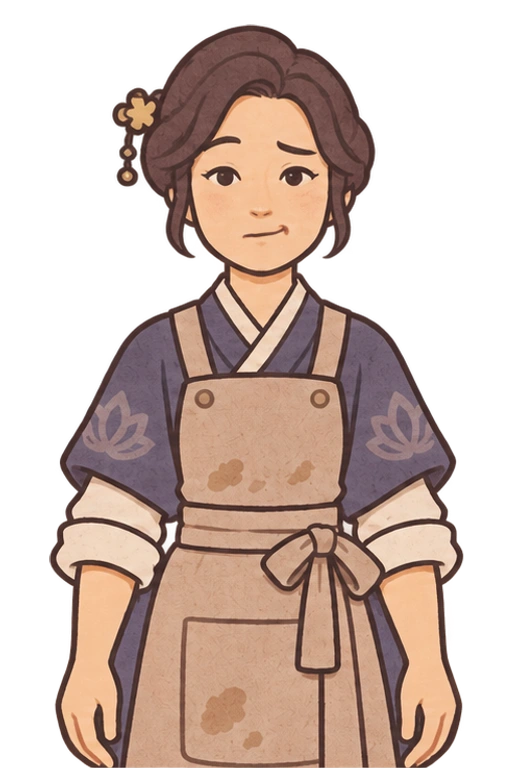
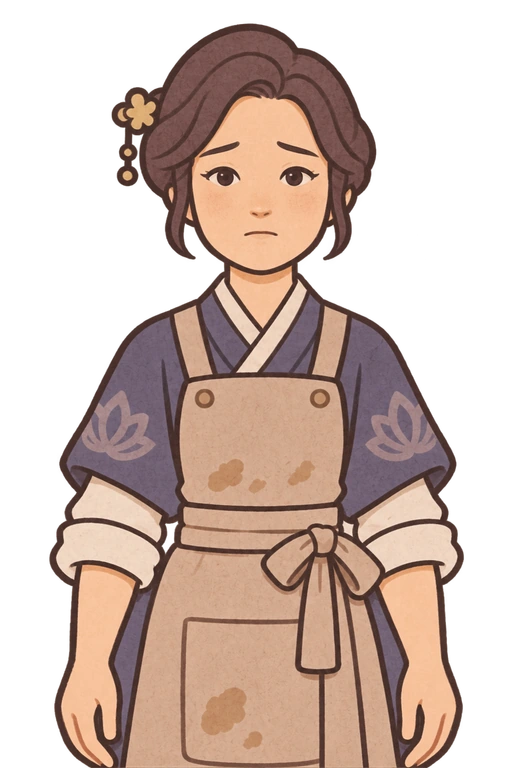
Polish paper orders, kind reactions and speaker-aligned dialogue

diff --git a/dialogue.js b/dialogue.js
@@ -88,10 +88,47 @@ const REVIEWS=Object.freeze({
 });
 const hash=text=>{let n=0;for(const c of String(text))n=(Math.imul(n,31)+c.charCodeAt(0))>>>0;return n;};
 export function reviewMood(score){return score?.objective>=80&&score?.total>=85?'happy':score?.total>=60?'uncertain':'angry';}
+const EXPLANATION_REVIEWS=Object.freeze({
+ king:[['청자는 잘 빚었소.','과인의 주문대로 모양과 제작을 잘 갖추었구려. 이제 그 까닭을 더 자세히 들려주시오.'],['기물은 마음에 드오.','부탁한 청자는 제대로 만들었소. 어디에 쓰고 어찌 만들었는지 이야기를 보태시오.'],['솜씨는 잘 보았소.','주문에 맞게 빚은 것은 흡족하오. 작품에 담은 생각도 듣고 싶구려.']],
+ queen:[['청자는 곱게 완성했소.','부탁한 모양과 제작은 잘 갖추었소. 이 청자의 쓰임과 솜씨를 말로도 전해 주시오.'],['작품은 마음에 드는구려.','주문의 조건은 잘 맞췄소. 그 모양과 무늬를 고른 까닭을 조금 더 들려주시오.'],['이야기가 조금 아쉽소.','청자를 잘 만든 것은 보이오. 어디에 쓰고 어떤 공을 들였는지 보태 주시오.']],
+ noble:[['청자는 제대로 만들었소.','주문한 모양과 제작은 모두 맞소. 이 물건을 어떻게 쓰고 만들었는지 설명해 주시오.'],['기물은 흡족하구려.','부탁한 조건을 꼼꼼히 갖췄소. 작품에 담은 까닭까지 들으면 좋겠구려.'],['설명을 더 듣고 싶소.','청자는 주문에 맞게 잘 빚었소. 그대가 생각한 쓰임과 솜씨를 들려주시오.']],
+ noblewoman:[['청자는 마음에 드오.','부탁한 대로 잘 빚었구려. 우리 집 어디에 쓰면 좋을지 이야기도 보태 주시오.'],['잘 만든 것은 알겠소.','모양과 제작 조건은 모두 맞소. 무슨 생각으로 만들었는지 더 듣고 싶구려.'],['이야기만 더 들려주시오.','부탁한 기물은 잘 완성했소. 쓰임과 공들인 부분을 차근히 이야기해 주시오.']],
+ artisan:[['손끝의 솜씨는 좋구려.','주문과 제작 과정은 모두 맞췄소. 이제 왜 그렇게 만들었는지 설명해 보시오.'],['청자는 잘 완성했소.','모양과 제작을 제대로 익혔구려. 그 까닭을 말로 풀어내는 연습도 해 보시오.'],['생각을 더 들려주시오.','주문에 맞게 잘 빚었소. 어느 곳에 쓰고 무엇에 공을 들였는지 이야기해 보시오.']],
+});
+const REPAIR_QUOTES=Object.freeze({
+ king:{use:['과인이 무엇에 쓰려 했는지 다시 살피시오. 그 쓰임에 맞는 기물을 고르시오.','부탁한 쓰임과 고른 기물의 형태가 다르구려. 쓸 자리를 생각하여 다시 고르시오.'],process:['기물의 제작이 아직 끝나지 않았구려. 남은 과정을 차근히 마무리하시오.','제작 단계에 빠진 곳이 보이오. 마무리한 뒤 다시 가져오시오.'],design:['기법이나 무늬, 세부 형태에서 주문과 다른 조건이 있소. 아래 짚은 부분을 살피시오.','과인이 부탁한 세부 조건이 아직 맞지 않소. 짚어 드리는 조건을 다시 확인하시오.']},
+ queen:{use:['부탁한 자리에 쓰기에는 기물의 종류가 다르구려. 쓰임에 맞는 형태를 골라 주시오.','내가 무엇을 하려 했는지 떠올려 보시오. 그 일에 알맞은 기물을 부탁하오.'],process:['완성까지 남은 제작 과정이 있소. 차례대로 마무리해 주시오.','제작의 한 단계가 빠졌구려. 남은 손질을 마친 뒤 다시 보여 주시오.'],design:['부탁한 기법과 무늬, 세부 형태 중 다른 조건이 보이오. 짚은 곳을 맞춰 주시오.','주문의 세부 조건을 조금 더 살펴 주시오. 고칠 곳을 아래에 짚어 두었소.']},
+ noble:{use:['내가 부탁한 쓰임에는 다른 형태가 필요하오. 주문을 읽고 기물부터 다시 골라 주시오.','이 물건의 쓰임이 부탁한 것과 다르오. 어디에 쓸지 생각하며 형태를 고르시오.'],process:['제작이 덜 끝났구려. 남은 단계를 마쳐야 받아 쓸 수 있소.','완성에 필요한 과정이 빠졌소. 순서를 살펴 끝까지 마무리하시오.'],design:['기법과 무늬, 세부 형태 중 주문과 맞지 않는 조건이 있소. 아래 조건을 다시 보시오.','부탁한 세부 조건이 아직 빠져 있소. 짚어 드린 부분을 고쳐 주시오.']},
+ noblewoman:{use:['내가 쓸 곳과 기물의 종류가 맞지 않소. 그 쓰임에 알맞은 형태로 골라 주시오.','어디에 두고 무엇을 할 물건인지 다시 살펴보시오. 그에 맞는 기물이 필요하오.'],process:['정성을 들여 마무리할 단계가 남았구려. 빠진 제작 과정을 이어 주시오.','아직 완성하지 못한 과정이 있소. 남은 손질을 마친 뒤 보여 주시오.'],design:['부탁한 기법이나 무늬, 세부 형태에 다른 점이 남았소. 짚은 조건을 다시 살펴 주시오.','주문에서 세세히 부탁한 부분을 더 맞춰 주시오. 고칠 조건을 아래에 적었소.']},
+ artisan:{use:['먼저 이 기물의 쓰임을 떠올려 보시오. 주문한 일에 알맞은 형태를 다시 골라 보시오.','쓰임과 형태를 잇는 연습이 더 필요하오. 무엇을 할 물건인지부터 다시 살피시오.'],process:['제작 과정에 빠진 단계가 있구려. 순서대로 끝까지 해내는 것도 도공의 솜씨요.','마무리하지 못한 제작 단계를 살펴보시오. 남은 일을 차근히 끝내 보시오.'],design:['세부 형태와 기법, 무늬에서 주문과 다른 조건을 찾아보시오. 고칠 부분을 아래에 짚었소.','주문의 세부 조건을 다시 확인할 차례요. 짚어 준 조건부터 맞춰 보시오.']},
+});
+function reviewDetail(shortfall){
+ if(!shortfall)return '그대가 붙인 이름과 이야기를 함께 간직하겠소.';
+ const feedback=String(shortfall.feedback||'');
+ if(shortfall.key==='use'){const shape=feedback.match(/이 주문에는 (.+?)의 쓰임/);return shape?`이 주문에는 ${shape[1]}의 쓰임이 알맞소. 그 형태를 골라 주시오.`:'무엇에 쓸 청자인지 생각하고, 쓰임에 알맞은 형태를 고르시오.';}
+ if(shortfall.key==='process')return feedback.includes('제작 단계를')?'선택한 표현 방법의 제작 단계를 먼저 마무리하시오.':'건조 → 초벌 → 유약 → 재벌의 과정을 순서대로 마무리하시오.';
+ if(shortfall.key==='design'){
+  if(feedback.includes('물이 샐'))return '몸통의 구멍으로 물이 샐 수 있소. 물 담을 기물에는 상감이나 무문을 고르시오.';
+  if(feedback.includes('세부 형태'))return '주문에 제시된 참고 예시와 내가 고른 세부 형태를 비교하시오.';
+  const motif=feedback.match(/주문에 있는 (.+?)를 다시/);if(motif)return `주문한 ${motif[1]} 무늬가 모두 들어 있는지 살피시오.`;
+  const technique=feedback.match(/이 주문에는 (.+?) 기법이 필요/);if(technique)return `이 주문에는 ${technique[1]} 기법이 필요하오. 그 기법으로 표현하시오.`;
+  return '주문한 기법과 무늬, 세부 형태 가운데 빠진 조건을 확인하시오.';
+ }
+ return ['selfBeauty','explanationBeauty'].includes(shortfall.key)?'공들인 부분과 그때 한 작업, 그렇게 표현한 까닭을 구체적으로 설명하시오.':'만든 모양·무늬가 어디에 쓰기 알맞은지 까닭을 덧붙여 주시오.';
+}
 export function customerReview(order,score,work={}){
- const character=castForOrder(order||{id:'unknown'},work.customerId),mood=reviewMood(score),variants=REVIEWS[character.id][mood];
- const [headline,quote]=variants[hash(`${work.id||''}:${order?.id||''}:${score?.total||0}`)%variants.length];
- const shortfall=(score?.breakdown||[]).filter(item=>item.score<item.max).sort((a,b)=>(a.score/a.max)-(b.score/b.max))[0];
- const details={use:'무엇에 쓸 청자인지 생각하고, 쓰임에 알맞은 형태를 고르시오.',process:'장식과 건조, 초벌, 유약, 재벌의 순서를 다시 살펴보시오.',design:'주문서의 세부 형태와 기법, 무늬를 하나씩 맞춰 보시오.',selfUse:'모양이 그 쓰임에 왜 알맞은지 까닭을 덧붙여 주시오.',selfBeauty:'빛깔이나 무늬, 제작 기법이 왜 뛰어난지 까닭을 설명하시오.',explanationUse:'모양이 그 쓰임에 왜 알맞은지 까닭을 덧붙여 주시오.',explanationBeauty:'빛깔이나 무늬, 제작 기법이 왜 뛰어난지 까닭을 설명하시오.'};
- return {character:character.id,mood,headline,quote,detail:shortfall?(details[shortfall.key]||'작품에 담은 까닭을 조금 더 구체적으로 들려주시오.'):'그대가 붙인 이름과 이야기를 함께 간직하겠소.',learningFeedback:shortfall?.feedback||'',total:Number(score?.total)||0};
+ const character=castForOrder(order||{id:'unknown'},work.customerId),mood=reviewMood(score),seed=hash(`${work.id||''}:${order?.id||''}:${score?.total||0}`);
+ const shortfalls=(score?.breakdown||[]).filter(item=>item.max>0&&item.score<item.max);
+ const objectiveShortfalls=shortfalls.filter(item=>['use','process','design'].includes(item.key));
+ // Diagnose the work before its written explanation. A full 80/80 never requests a new shape.
+ const candidates=objectiveShortfalls.length?objectiveShortfalls:shortfalls;
+ const shortfall=candidates.sort((a,b)=>(a.score/a.max)-(b.score/b.max))[0];
+ let [headline,quote]=REVIEWS[character.id][mood][seed%REVIEWS[character.id][mood].length];
+ const explanationOnly=Number(score?.objective)>=80&&mood!=='happy';
+ if(explanationOnly){const variants=EXPLANATION_REVIEWS[character.id];[headline,quote]=variants[seed%variants.length];}
+ else if(mood!=='happy'){
+  const focus=objectiveShortfalls.length?shortfall.key:'design',variants=REPAIR_QUOTES[character.id][focus];
+  quote=variants[seed%variants.length];
+ }
+ return {character:character.id,mood,headline,quote,detail:reviewDetail(shortfall),focus:shortfall?.key||'complete',learningFeedback:shortfall?.feedback||'',total:Number(score?.total)||0};
 }

diff --git a/assets/characters/reactions/contact-sheet.html b/assets/characters/reactions/contact-sheet.html
@@ -1,0 +1,10 @@
+<!doctype html>
+<html lang="ko"><head><meta charset="utf-8"><meta name="viewport" content="width=device-width,initial-scale=1"><title>고려 공방 인물 표정 검수 · 5명 × 3표정</title>
+<style>
+@font-face{font-family:Jua;src:url('../../fonts/Jua-Regular.woff2') format('woff2')}*{box-sizing:border-box}body{margin:0;background:#efe2cc;color:#61464a;font-family:Jua,sans-serif}main{max-width:1140px;margin:auto;padding:30px}h1{font-size:32px;margin:0 0 8px}p{font-size:16px;line-height:1.6;margin:0 0 18px}.legend{display:grid;grid-template-columns:150px repeat(3,1fr);gap:12px;padding:12px 0;font-size:22px;text-align:center}.row{display:grid;grid-template-columns:150px repeat(3,1fr);gap:12px;margin:0 0 16px}.person{display:flex;flex-direction:column;justify-content:center;gap:9px}.person h2{font-size:23px;margin:0}.person a{font-size:15px;color:#47694f;text-decoration:underline;text-underline-offset:4px}.card{margin:0;border:2px solid #aa8374;border-radius:14px;background:#fff7e8;overflow:hidden}.card img{display:block;width:100%;height:280px;object-fit:contain;object-position:center bottom;background:linear-gradient(#e9eddc,#ead8bb)}figcaption{padding:9px 12px;text-align:center;font-size:17px;background:#fff5e2}.note{padding:16px 20px;border:1px solid #b5967d;border-radius:10px;background:#f9f0de;margin-top:26px}.file{font-family:monospace;font-size:11px;color:#8d756b;display:block;margin-top:4px}@media(max-width:760px){main{padding:18px}.legend,.row{grid-template-columns:100px repeat(3,1fr);gap:7px}.card img{height:200px}.person h2{font-size:19px}.person a{font-size:13px}figcaption{font-size:14px;padding:6px}.file{display:none}}
+</style></head><body><main>
+<h1>다섯 사람의 세 가지 표정</h1><p>게임에서 실제로 불러오는 반신상 15개를 모은 제작 검수 화면입니다. 만족과 화남은 원본 시트의 표정을 사용하고, 아쉬움은 양쪽 눈썹과 입이 대칭인 부드러운 표정으로 새로 그렸습니다.</p>
+<div class="legend"><span>등장인물</span><span>만족</span><span>아쉬움</span><span>화남</span></div>
+<section class="row" aria-label="왕 표정"><div class="person"><h2>왕</h2><a href="source/king.png" target="_blank" rel="noopener">초기 3표정 원본 ↗</a><a href="source/king-uncertain-kind.png" target="_blank" rel="noopener">새 아쉬움 원본 ↗</a></div><figure class="card"><img src="king-happy.webp" width="512" height="768" alt="왕 · 기쁘게 웃는 얼굴"><figcaption>만족<span class="file">king-happy.webp</span></figcaption></figure><figure class="card"><img src="king-uncertain.webp" width="512" height="768" alt="왕 · 양쪽 눈썹과 입이 대칭인 부드러운 아쉬움"><figcaption>아쉬움<span class="file">king-uncertain.webp</span></figcaption></figure><figure class="card"><img src="king-angry.webp" width="512" height="768" alt="왕 · 눈썹을 찌푸린 얼굴"><figcaption>화남<span class="file">king-angry.webp</span></figcaption></figure></section><section class="row" aria-label="왕비 표정"><div class="person"><h2>왕비</h2><a href="source/queen.png" target="_blank" rel="noopener">초기 3표정 원본 ↗</a><a href="source/queen-uncertain-kind.png" target="_blank" rel="noopener">새 아쉬움 원본 ↗</a></div><figure class="card"><img src="queen-happy.webp" width="512" height="768" alt="왕비 · 기쁘게 웃는 얼굴"><figcaption>만족<span class="file">queen-happy.webp</span></figcaption></figure><figure class="card"><img src="queen-uncertain.webp" width="512" height="768" alt="왕비 · 양쪽 눈썹과 입이 대칭인 부드러운 아쉬움"><figcaption>아쉬움<span class="file">queen-uncertain.webp</span></figcaption></figure><figure class="card"><img src="queen-angry.webp" width="512" height="768" alt="왕비 · 눈썹을 찌푸린 얼굴"><figcaption>화남<span class="file">queen-angry.webp</span></figcaption></figure></section><section class="row" aria-label="귀족 관원 표정"><div class="person"><h2>귀족 관원</h2><a href="source/noble.png" target="_blank" rel="noopener">초기 3표정 원본 ↗</a><a href="source/noble-uncertain-kind.png" target="_blank" rel="noopener">새 아쉬움 원본 ↗</a></div><figure class="card"><img src="noble-happy.webp" width="512" height="768" alt="귀족 관원 · 기쁘게 웃는 얼굴"><figcaption>만족<span class="file">noble-happy.webp</span></figcaption></figure><figure class="card"><img src="noble-uncertain.webp" width="512" height="768" alt="귀족 관원 · 양쪽 눈썹과 입이 대칭인 부드러운 아쉬움"><figcaption>아쉬움<span class="file">noble-uncertain.webp</span></figcaption></figure><figure class="card"><img src="noble-angry.webp" width="512" height="768" alt="귀족 관원 · 눈썹을 찌푸린 얼굴"><figcaption>화남<span class="file">noble-angry.webp</span></figcaption></figure></section><section class="row" aria-label="귀족 부인 표정"><div class="person"><h2>귀족 부인</h2><a href="source/noblewoman.png" target="_blank" rel="noopener">초기 3표정 원본 ↗</a><a href="source/noblewoman-uncertain-kind.png" target="_blank" rel="noopener">새 아쉬움 원본 ↗</a></div><figure class="card"><img src="noblewoman-happy.webp" width="512" height="768" alt="귀족 부인 · 기쁘게 웃는 얼굴"><figcaption>만족<span class="file">noblewoman-happy.webp</span></figcaption></figure><figure class="card"><img src="noblewoman-uncertain.webp" width="512" height="768" alt="귀족 부인 · 양쪽 눈썹과 입이 대칭인 부드러운 아쉬움"><figcaption>아쉬움<span class="file">noblewoman-uncertain.webp</span></figcaption></figure><figure class="card"><img src="noblewoman-angry.webp" width="512" height="768" alt="귀족 부인 · 눈썹을 찌푸린 얼굴"><figcaption>화남<span class="file">noblewoman-angry.webp</span></figcaption></figure></section><section class="row" aria-label="도공 선생님 표정"><div class="person"><h2>도공 선생님</h2><a href="source/artisan.png" target="_blank" rel="noopener">초기 3표정 원본 ↗</a><a href="source/artisan-uncertain-kind.png" target="_blank" rel="noopener">새 아쉬움 원본 ↗</a></div><figure class="card"><img src="artisan-happy.webp" width="512" height="768" alt="도공 선생님 · 기쁘게 웃는 얼굴"><figcaption>만족<span class="file">artisan-happy.webp</span></figcaption></figure><figure class="card"><img src="artisan-uncertain.webp" width="512" height="768" alt="도공 선생님 · 양쪽 눈썹과 입이 대칭인 부드러운 아쉬움"><figcaption>아쉬움<span class="file">artisan-uncertain.webp</span></figcaption></figure><figure class="card"><img src="artisan-angry.webp" width="512" height="768" alt="도공 선생님 · 눈썹을 찌푸린 얼굴"><figcaption>화남<span class="file">artisan-angry.webp</span></figcaption></figure></section>
+<p class="note">원본 이미지와 해시 기록은 <a href="manifest.json">manifest.json</a>에 보존되어 있습니다. 게임의 점수 구간은 제작·주문 80점 및 총점 85점 이상이면 만족, 총점 60점 이상이면 아쉬움, 60점 미만이면 화남입니다. 이 검수 문서는 게임 메뉴에 노출되지 않습니다.</p>
+</main></body></html>

diff --git a/reactions.test.js b/reactions.test.js
@@ -27,5 +27,20 @@ test('all 15 expression images preserve generated sources and recorded hashes',a
  const manifest=JSON.parse(await readFile(new URL('./assets/characters/reactions/manifest.json',import.meta.url),'utf8'));
  assert.deepEqual(manifest.moods,['happy','uncertain','angry']);assert.equal(manifest.characters.length,5);
  for(const char of manifest.characters){const original=await readFile(new URL('./assets/characters/reactions/'+char.source,import.meta.url));assert.equal(createHash('sha256').update(original).digest('hex'),char.sourceSha256);assert.equal(original[25],6,'source has alpha');assert.equal(char.frames.length,3);
- for(const frame of char.frames){const bytes=await readFile(new URL(frame.src,import.meta.url));assert.equal(createHash('sha256').update(bytes).digest('hex'),frame.sha256);assert.equal(bytes.subarray(8,12).toString(),'WEBP');}}
+ for(const frame of char.frames){if(frame.source){const source=await readFile(new URL('./assets/characters/reactions/'+frame.source,import.meta.url));assert.equal(createHash('sha256').update(source).digest('hex'),frame.sourceSha256);assert.equal(source.readUInt32BE(16),frame.sourceWidth);assert.equal(source.readUInt32BE(20),frame.sourceHeight);}const bytes=await readFile(new URL(frame.src,import.meta.url));assert.equal(createHash('sha256').update(bytes).digest('hex'),frame.sha256);assert.equal(bytes.subarray(8,12).toString(),'WEBP');}}
+});
+
+test('perfect construction with weak explanations praises the pot and asks only for its story',()=>{
+ const score={objective:80,self:0,total:80,breakdown:[{key:'use',score:40,max:40},{key:'process',score:30,max:30},{key:'design',score:10,max:10},{key:'selfUse',score:0,max:10,feedback:'이유를 보태 주세요.'},{key:'selfBeauty',score:0,max:10}]};
+ for(const character of CHARACTERS){const lines=new Set();for(let i=0;i<12;i++){const review=customerReview(ORDERS[0],score,{customerId:character.id,id:'explanation-'+i});assert.equal(review.mood,'uncertain');assert.equal(review.focus,'selfUse');assert.match(review.quote,/잘|맞|제대로|흐뭇|갖추|좋|완성|익혔/);assert.match(review.quote,/까닭|설명|이야기|생각|말로|들려|보태/);assert.doesNotMatch(review.headline+' '+review.quote,/형편없|주문과.*다르|모양.*다시 맞|쓰임을 놓|다시 빚|빠진 조건|고쳐/);lines.add(review.quote);}assert.ok(lines.size>=2);}
+});
+test('the actual deficient construction criterion takes precedence over low writing points',()=>{
+ const make=(key,feedback)=>({objective:key==='use'?40:key==='process'?50:70,total:key==='use'?40:key==='process'?50:70,breakdown:[{key:'use',score:key==='use'?0:40,max:40,feedback:key==='use'?feedback:''},{key:'process',score:key==='process'?0:30,max:30,feedback:key==='process'?feedback:''},{key:'design',score:key==='design'?0:10,max:10,feedback:key==='design'?feedback:''},{key:'selfUse',score:0,max:10}]});
+ for(const character of CHARACTERS){
+  const work={id:'criterion',customerId:character.id};
+  const use=customerReview(ORDERS[0],make('use','이 주문에는 베개의 쓰임이 어울려요.'),work);assert.equal(use.focus,'use');assert.match(use.detail,/베개/);
+  const process=customerReview(ORDERS[0],make('process','건조 → 초벌구이 → 유약 바르기 → 재벌구이 순서로 다시 확인해 보세요.'),work);assert.equal(process.focus,'process');assert.match(process.quote,/제작|과정|단계/);assert.doesNotMatch(process.quote,/형태.*다르|쓰임.*다르/);
+  const technique=customerReview(ORDERS[0],make('design','이 주문에는 상감 기법이 필요해요.'),work);assert.equal(technique.focus,'design');assert.match(technique.detail,/상감/);assert.doesNotMatch(technique.quote,/기물의 종류|쓰임.*다르/);
+  const motif=customerReview(ORDERS[0],make('design','주문에 있는 학를 다시 확인해 보세요.'),work);assert.match(motif.detail,/학 무늬/);
+ }
 });

diff --git a/app-v3.js b/app-v3.js
@@ -132,6 +132,6 @@ document.addEventListener('input',e=>{const el=e.target;if(!work||busy)return;if
 window.addEventListener('pagehide',()=>{assessmentRequest?.abort();clayGame?.dispose();inlayGame?.dispose();inspectionGame?.dispose();galleryCraft?.dispose();mini?.dispose();sculpt?.dispose();craft?.dispose();});
 
 function setView(view){screen=view;work.stationView=view;save();render();}
-function counterScreen(){const customer=castForOrder(order(),work?.customerId),done=work.step===4,delivery=screen==='counter-delivery';return `<section class="counter-scene"><div class="counter-person">${characterMarkup(customer.id)}</div><div class="counter-dialogue"><div class="counter-speech"><span>${customer.name}${delivery?'의 답장':'의 주문'}</span><p>${delivery?(done?'정성껏 만든 청자를 잘 받았어요. 고마워요!':'청자가 완성됐군요! 어디에 쓰고 어떤 솜씨를 담았는지 들려주세요.'):esc(orderQuote(order()))}</p></div><div class="counter-responses">${delivery?`<button class="primary" data-action="${done?'result':'explain'}">${done?'답장 확인':'작품 이야기 전하기'}</button>${done?'<button class="primary green" data-action="next-customer">다음 손님 →</button>':''}`:`<button class="primary green" data-action="accept">알겠어요</button><button class="small-button" data-action="order">주문 다시 살피기</button>`}</div></div><div class="counter-front"><div class="desk-props" aria-hidden="true"><img class="desk-ink" src="./assets/scenes/desk-ink-tidy.webp" alt=""></div><button class="counter-order reference-book" data-action="reference" aria-label="청자 도감 펼치기"><img src="./assets/scenes/desk-reference-book.webp" alt=""><span>청자 도감</span></button></div>${delivery&&work.shape?'<div class="counter-piece"><div id="workpiece" class="workpiece"></div></div>':''}</section>`;}
+function counterScreen(){const customer=castForOrder(order(),work?.customerId),done=work.step===4,delivery=screen==='counter-delivery';return `<section class="counter-scene"><div class="counter-person">${characterMarkup(customer.id)}</div><div class="counter-dialogue"><div class="counter-speech"><span>${customer.name}${delivery?'의 답장':'의 주문'}</span><p>${delivery?(done?'정성껏 빚은 청자를 잘 받았소. 고맙소!':'청자가 완성되었구려! 어떤 모양과 무늬로 빚고, 어디에 쓰면 좋을지 들려주시오.'):esc(orderQuote(order()))}</p></div><div class="counter-responses">${delivery?`<button class="primary" data-action="${done?'result':'explain'}">${done?'답장 확인':'작품 이야기 전하기'}</button>${done?'<button class="primary green" data-action="next-customer">다음 손님 →</button>':''}`:`<button class="primary green" data-action="accept">알겠어요</button><button class="small-button" data-action="order">주문 다시 살피기</button>`}</div></div><div class="counter-front"><div class="desk-props" aria-hidden="true"><img class="desk-ink" src="./assets/scenes/desk-ink-tidy.webp" alt=""></div><button class="counter-order reference-book" data-action="reference" aria-label="청자 도감 펼치기"><img src="./assets/scenes/desk-reference-book.webp" alt=""><span>청자 도감</span></button></div>${delivery&&work.shape?'<div class="counter-piece"><div id="workpiece" class="workpiece"></div></div>':''}</section>`;}
 
 render();

diff --git a/reactions.css b/reactions.css
@@ -19,3 +19,25 @@
 @keyframes review-arrival{from{opacity:0;transform:translateX(-20px)}to{opacity:1;transform:translateX(0)}}
 @media(max-height:650px){.review-person{width:35%;left:3%;height:94%}.review-dialogue{left:40%;right:3%;top:4%;bottom:4%;gap:10px}.review-speech{padding:16px 20px;border-radius:19px}.review-speech h2{font-size:29px;margin-bottom:10px}.review-speech .review-speaker{font-size:14px;margin-bottom:5px}.review-speech .review-quote{font-size:18px;line-height:1.5}.review-speech .review-detail{font-size:15px;margin-top:10px}.review-score{font-size:14px;padding:7px 12px}.review-score strong{font-size:25px}.review-actions .primary,.review-actions .small-button{font-size:16px;min-height:40px;padding:7px 10px}}
 @media(prefers-reduced-motion:reduce){.review-person{animation:none}}
+
+/* The speaker's face and its balloon share one horizontal conversation line. */
+.counter-scene .counter-dialogue{left:31%;right:5%;top:20%;gap:12px}
+.counter-scene .counter-speech{min-height:clamp(142px,23.2vh,182px);display:flex;flex-direction:column;justify-content:center;padding:18px 24px;--tail-top:clamp(61px,calc(15vh - 29px),112px)}
+.counter-scene .counter-speech::before,.review-speech::before{content:'';position:absolute;left:-44px;top:var(--tail-top);width:45px;height:46px;background:#86585a;clip-path:polygon(100% 0,100% 100%,0 50%);pointer-events:none}
+.counter-scene .counter-speech::after,.review-speech::after{content:'';position:absolute;left:-39px;top:calc(var(--tail-top) + 5px);bottom:auto;width:42px;height:36px;background:#fff7e7;border:0;clip-path:polygon(100% 0,100% 100%,0 50%);transform:none;filter:none;pointer-events:none}
+.counter-scene .counter-responses{justify-content:flex-start;padding:2px 0 0 18px;gap:12px}
+.is-counter-delivery .counter-scene .counter-responses{justify-content:flex-end;padding-right:0}
+.game-window.shop-game .customer-review-scene .review-dialogue{left:32%;right:4%;top:16%;bottom:27%;justify-content:flex-start;gap:10px}
+.game-window.shop-game .customer-review-scene .review-speech{--tail-top:clamp(94px,calc(16vh + 2px),145px);min-height:clamp(160px,26vh,206px)}
+.review-speech::before{background:#8c6261;clip-path:polygon(100% 0,100% 100%,0 100%)}
+.review-speech::after{background:#fff7e8;clip-path:polygon(100% 0,100% 100%,0 100%)}
+@media(max-height:650px){
+ .counter-scene .counter-dialogue{left:32%;right:4%;top:20%;gap:9px}
+ .counter-scene .counter-speech{padding:14px 18px}
+ .counter-scene .counter-responses{padding-left:8px;gap:9px}
+ .game-window.shop-game .customer-review-scene .review-dialogue{left:33%;top:15%;bottom:26%;gap:8px}
+}
+/* Hat height differs between the original full-body sheets; keep each tail at its speaker's mouth. */
+.counter-scene:has(.character-sprite[data-character=artisan]) .counter-speech{--tail-top:clamp(28px,calc(9vh - 23px),60px)}
+.counter-scene:has(.character-sprite[data-character=noblewoman]) .counter-speech{--tail-top:clamp(43px,calc(12vh - 29px),82px)}
+.game-window.shop-game .customer-review-scene:has(.reaction-portrait[data-character=artisan]) .review-speech{--tail-top:clamp(48px,calc(8vh + 2px),75px)}

diff --git a/assessment-rules.js b/assessment-rules.js
@@ -61,11 +61,13 @@ const NONSENSE = /(?:[ㅋㅎㅠㅜ]){3,}|(.)\1{6,}|(?:asdf|qwer|zxcv){2,}|무시
 function meaningful(text) { return text.length >= 8 && (text.match(/[가-힣]/g) || []).length >= 5 && !NONSENSE.test(text); }
 function response(score, feedback) { return {score, feedback}; }
 export function explanationHints(work = {}) {
+  const input=assessmentInput(work),names={cloud:'구름',crane:'학',lotus:'연꽃',peony:'모란',chrysanthemum:'국화',plum:'매화',bamboo:'대나무',willow:'버드나무',grape:'포도',wildflower:'풀꽃',text:'글자'};
+  const motif=names[input.patterns[0]||input.drawingLabel]||'무늬',slip=input.slip==='dark'?'검은 흙':'흰 흙';
   const examples = {
     pillow: '예: 머리를 놓는 곳이 오목해서 누웠을 때 머리를 안정적으로 받칠 수 있기 때문이다.',
     stool: '예: 윗면이 평평하고 몸통이 튼튼해서 사람이 편하게 앉을 수 있기 때문이다.',
     pitcher: '예: 손잡이를 잡고 가느다란 주둥이로 물을 흘려보낼 수 있기 때문이다.',
-    incense: '예: 뚜껑에 구멍이 있어서 향을 피우면 연기가 밖으로 퍼질 수 있기 때문이다.',
+    incense: '예: 몸통에 향을 담고 뚜껑을 열어 향을 피울 수 있기 때문이다.',
     duckDropper: '예: 작은 구멍으로 물을 조금씩 떨어뜨려 벼루에서 먹을 갈 수 있기 때문이다.',
     chrysanthemumCup: '예: 속이 오목하고 입이 넓어서 차를 담아 마시기 편하기 때문이다.',
     cupStand: '예: 잔을 받침 위에 놓으면 뜨거운 잔을 옮기고 내려놓기 편하기 때문이다.',
@@ -73,9 +75,9 @@ export function explanationHints(work = {}) {
     maebyeong: '예: 어깨와 몸통이 넓고 입이 좁아서 내용물을 담아 보관하기 좋기 때문이다.',
   };
   return {use: examples[work.shape] || '예: 이 부분을 이렇게 빚어서 알맞은 곳에 사용할 수 있기 때문이다.',
-    beauty: work.technique === 'openwork' ? '예: 구름 모양 구멍의 가장자리를 여러 번 다듬었어요. 빛과 그림자가 무늬를 드러내기 때문이다.'
+    beauty: work.technique === 'openwork' ? `예: ${motif} 모양 구멍의 가장자리를 여러 번 다듬었어요. 빛과 그림자가 무늬를 드러내기 때문이다.`
       : work.technique === 'plain' ? '예: 몸통을 천천히 빚고 표면을 고르게 다듬었어요. 부드러운 곡선과 맑은 푸른빛을 살리고 싶었기 때문이다.'
-      : '예: 구름을 파고 흰 흙을 채운 다음 여러 번 닦았어요. 무늬가 또렷하게 보이게 하기 때문이다.'};
+      : `예: ${motif} 무늬를 파고 ${slip}을 채운 다음 여러 번 닦았어요. 무늬가 또렷하게 보이게 하기 때문이다.`};
 }
 export function rubricAssessment(work = {}, notice = '기본 기준 평가 · 모양과 쓰임, 공들인 부분과 만드는 과정을 살폈어요.') {
   const input = assessmentInput(work), useText = input.explanationUse, beautyText = input.explanationBeauty, rule = USE_RULES[input.shape];

diff --git a/finish-workshop.css b/finish-workshop.css
@@ -98,3 +98,16 @@
 .drawing-meaning{display:block;margin-top:12px;font-size:16px;line-height:1.4}
 .drawing-meaning select{display:block;width:100%;min-width:0;margin-top:5px;padding:8px;font:inherit;color:#795650;background:#fff8e9;border:1px solid #b28a77;border-radius:6px}
 @media(max-height:650px){.drawing-meaning{font-size:15px;margin-top:9px}.drawing-meaning select{padding:6px}}
+
+/* Original hanji artwork: the transparent deckle edge replaces the UI frame.
+   Include the previous border width in padding to keep the text area stable. */
+.order-summary{
+ padding:15px 16px;
+ background:transparent url('./assets/scenes/order-paper.webp') center/100% 100% no-repeat;
+ border:0;
+ border-radius:0;
+ box-shadow:none;
+ color:#6f4d3e;
+}
+.order-summary dt,.order-summary .text-button{color:#79533f}
+@media(max-height:650px){.order-summary{padding:12px}}

diff --git a/README.md b/README.md
@@ -88,3 +88,7 @@ npm start
 `npm run test:shaping`은 흙을 실제로 당기는 동작, 위쪽 윤곽 도달, 90% 통과, 진행률 복원과 키보드 조작을 검증합니다.
 
 `test:decoration`, `test:kiln`, `test:inspection`, `test:assessment`, `test:ui`는 각 작업의 포인터·키보드 조작, 순서, 화면 배치와 설명 제출을 검사합니다. `assessment.test.js`는 실제 외부 모델 호출 없이 응답 검증·기본 기준·서버 오류 처리를 검사하며, 실제 AI 연결 여부는 배포 환경에서 별도로 확인해야 합니다.
+
+주문 요약은 자체 생성한 밝은 한지 배경에 표시합니다. 카운터 왼쪽에는 벼루·연적·붓, 오른쪽에는 실제 은 궁서체 제목을 얹은 청자 도감 책을 놓습니다. 책은 주문·전달·평가 화면에서 도감을 여는 버튼입니다. 문양 10종은 박물관 청자 자료를 참고해 다시 그렸고, 국화 문양은 유지했습니다. 그림 원본과 글꼴 라이선스를 각 assets 디렉터리에 보존합니다.
+
+`test:dialogue`는 가장 긴 주문 두 개와 다섯 손님을 두 크롬북 해상도에서 확인합니다. 말풍선의 왼쪽 꼬리, 큰 글씨와 답변 버튼의 잘림을 검사합니다. 제작이 만점이고 설명만 부족할 때는 작품을 잘 만들었다고 인정한 뒤 설명 보완을 요청합니다.
